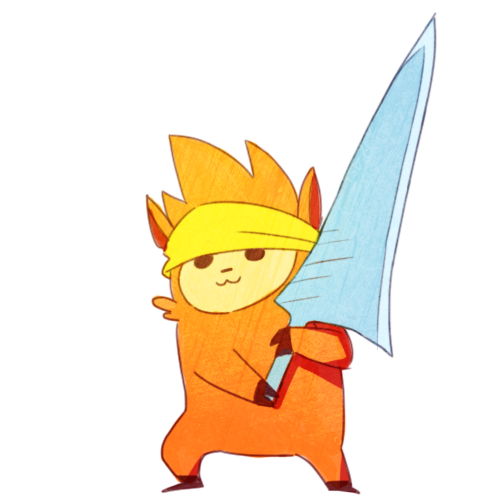
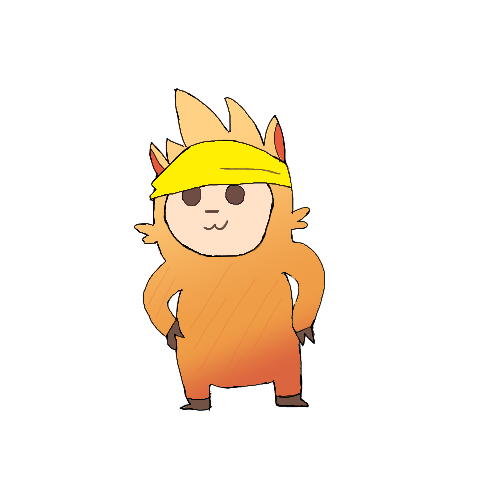
Added jaka assets

diff --git a/client/src/scenes/TitleScene.js b/client/src/scenes/TitleScene.js
@@ -2,7 +2,6 @@ import { FADE_DURATION, TITLE_FONT_SIZE }  from '../config/const'
 import config from '../config/config'
 import TextButton from '../helper/TextButton'
 import { getParameterByName } from '../toolbox/Toolbox'
-import FormUtil from '../util/formUtil'
 
 var firstTimeInScene = true
 
@@ -46,28 +45,7 @@ export default class TitleScene extends Phaser.Scene {
             firstTimeInScene = false
             this.navigateBasedOnQueryParams()
         }
-
-        // this.formUtil = new FormUtil({
-        //     scene: this,
-        //     rows: 11,
-        //     cols: 11
-        // });
-        // this.formUtil.showNumbers();
-        
-        // this.formUtil.setVisibile("myText", true)
-        // this.formUtil.scaleToGameW("myText", .95);
-        // this.formUtil.placeElementAt(5, 'myText', true);
-        
-        // this.formUtil.scaleToGameW("area51", .8);
-        // this.formUtil.scaleToGameH("area51", .5);
-        // this.formUtil.placeElementAt(60, "area51", true, true);
-        // this.formUtil.addChangeCallback("area51", this.textAreaChanged, this);
     }
-
-    // textAreaChanged() {
-    // 	var text=this.formUtil.getTextAreaValue("area51");
-    // 	console.log(text);
-    // }
 
     update() {}
 

diff --git a/client/src/scenes/PreloaderScene.js b/client/src/scenes/PreloaderScene.js
@@ -56,6 +56,11 @@ export default class PreloaderScene extends Phaser.Scene {
         this.load.image('suri_hurt', 'client/src/assets/alpaca/suri_hurt.png')
 
         this.load.image('jaka_standby', 'client/src/assets/alpaca/jaka_standby.png')
+        this.load.image('jaka_shield', 'client/src/assets/alpaca/jaka_shield.png')
+        this.load.image('jaka_shoot', 'client/src/assets/alpaca/jaka_shoot.png')
+        this.load.image('jaka_reload', 'client/src/assets/alpaca/jaka_reload.png')
+        this.load.image('jaka_hurt', 'client/src/assets/alpaca/jaka_hurt.png')
+
         this.load.image('pompaca_standby', 'client/src/assets/alpaca/pompaca_standby.png')
         this.load.image('punka_standby', 'client/src/assets/alpaca/punka_standby.png')
         this.load.image('punka_standby', 'client/src/assets/alpaca/punka_standby.png')

diff --git a/client/src/config/const.js b/client/src/config/const.js
@@ -4,10 +4,10 @@ const TITLE_FONT_SIZE = 110
 const alpacas = {
     jaka: {
         standby: 'jaka_standby',
-        shoot: 'suri_shoot',
-        reload: 'suri_reload',
-        shield: 'suri_shield',
-        hurt: 'suri_hurt',
+        shoot: 'jaka_shoot',
+        reload: 'jaka_reload',
+        shield: 'jaka_shield',
+        hurt: 'jaka_hurt',
         stats: {
             heartMax: 3,
             ammoMax: 3,
